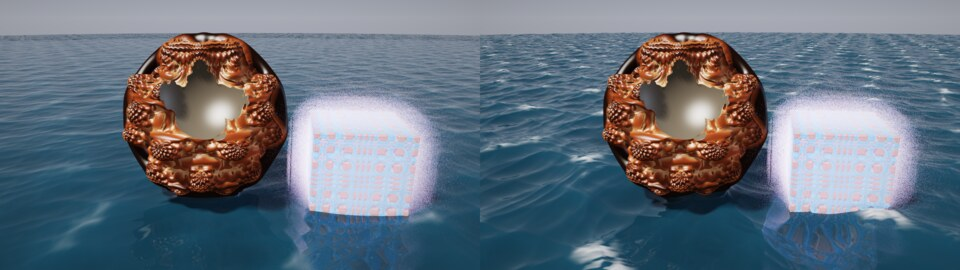
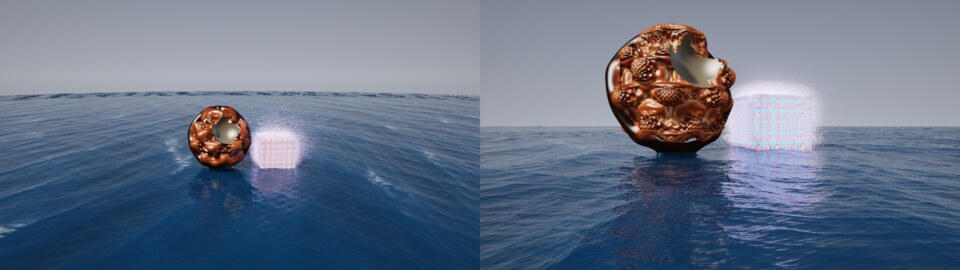
Water: wider wave spectrum, bending crests and wave groups
The waves now span long swells to small ripples (height proportional to
wave length) with random phases, small waves spread wider around the wind,
deep-water speeds, slow domain warping and wave groups, so wide views no
longer show a regular lattice. The sum is standardized so the height range
is the same for any number of waves; distance bound re-measured per
choppiness and detail. Rarer foam, deeper default color, manual.

diff --git a/crates/rmb-core/src/compose.rs b/crates/rmb-core/src/compose.rs
@@ -116,7 +116,7 @@ pub enum Primitive {
         /// Sharpness of the crests (0 = round swell, 1 = like the sea, 2 = very choppy).
         #[serde(default = "water_choppy")]
         choppy: f64,
-        /// Number of waves (2-48): more give finer ripples on the swell.
+        /// Number of waves (4-64): more give a richer sea with finer ripples.
         #[serde(default = "water_detail")]
         detail: f64,
         /// Foam on the crests (0-1).
@@ -180,7 +180,7 @@ impl Primitive {
 
     /// Water with good start values (moving waves in animations).
     pub fn water() -> Primitive {
-        Primitive::Water { amplitude: 0.06, wavelength: 2.0, phase: 0.0, angle: 0.0, choppy: water_choppy(), detail: water_detail(), foam: 0.4, reflect: water_reflect(), speed: 1.0 }
+        Primitive::Water { amplitude: 0.08, wavelength: 2.0, phase: 0.0, angle: 0.0, choppy: water_choppy(), detail: water_detail(), foam: 0.3, reflect: water_reflect(), speed: 1.0 }
     }
 
     /// The parameters in a fixed order (GPU buffer: `prim`, `prim2`).
@@ -280,7 +280,7 @@ fn water_choppy() -> f64 {
 }
 
 fn water_detail() -> f64 {
-    16.0
+    32.0
 }
 
 fn water_reflect() -> f64 {
@@ -289,36 +289,54 @@ fn water_reflect() -> f64 {
 
 /// Waves of a water surface: their number grows with the detail.
 pub fn water_waves(detail: f64) -> i32 {
-    (detail.round() as i32).clamp(2, 48)
+    (detail.round() as i32).clamp(4, 64)
 }
 
+/// Wave height ∝ wave length ^ this: 1 gives every size band about the same slope, as on the
+/// sea (ripples on swells).
+const WATER_FALLOFF: f64 = 1.0;
+
 /// Height of the waves at (`x`, `y`) in 0..1 (after "Very fast procedural ocean" by afl_ext;
-/// mirrors march.wgsl `water_wave01`): a sum of waves exp(sin - 1) in directions around the
-/// wind, each a little shorter, weaker and faster than the one before; every wave drags the
-/// point along its slope, which sharpens the crests (`choppy`).
+/// mirrors march.wgsl `water_wave01`): a sum of waves exp(sin - 1), from swells longer than
+/// the wave length down to small ripples, each with its own random phase, a direction around
+/// the wind (small waves spread wider) and the speed of deep water waves (longer ones run
+/// faster). Every wave drags the point along its slope, which sharpens the crests
+/// (`choppy`). Over large distances the crests bend (slow domain warping) and wave groups
+/// make the sea calmer and rougher in turns, so a wide view never repeats.
 fn water_wave01(a: &[f64; 8], x: f64, y: f64) -> f64 {
     let (len, t, wind) = (a[1].max(1e-6), a[2], a[3].to_radians());
     let drag = a[4].max(0.0) * 0.38;
+    // Slow bends: the points move by up to 0.8 wave lengths on a scale of 5.
+    let (gx, gy) = (x / (len * 5.0), y / (len * 5.0));
+    let wx = (water_noise(gx, gy) * 2.0 - 1.0) * len * 0.8;
+    let wy = (water_noise(gx + 31.7, gy + 17.3) * 2.0 - 1.0) * len * 0.8;
     let freq0 = std::f64::consts::TAU / len;
-    let (mut px, mut py) = (x * freq0, y * freq0);
-    // Far apart, the waves fall out of step.
-    let shift = (px * px + py * py).sqrt() * 0.1;
-    let (mut f, mut speed, mut w, mut sum, mut weights) = (1.0, 1.0, 1.0, 0.0, 0.0);
-    for i in 0..water_waves(a[5]) {
-        let ang = wind + 1.2 * (crate::render::hash3(i, 0, 11) as f64 * 2.0 - 1.0);
+    let (mut px, mut py) = ((x + wx) * freq0, (y + wy) * freq0);
+    let n = water_waves(a[5]);
+    // From 2.5 times the wave length down to about an eightieth of it.
+    let ratio = (200f64).powf(1.0 / (n - 1).max(1) as f64);
+    let (mut f, mut w, mut sum, mut weights, mut squares) = (0.4, 1.0, 0.0, 0.0, 0.0);
+    for i in 0..n {
+        let spread = 0.5 + 1.5 * i as f64 / n as f64;
+        let ang = wind + spread * (crate::render::hash3(i, 0, 11) as f64 * 2.0 - 1.0);
         let (dx, dy) = (ang.cos(), ang.sin());
-        let ph = (px * dx + py * dy) * f + t * speed + shift;
+        let ph = (px * dx + py * dy) * f + t * f.sqrt() + crate::render::hash3(i, 1, 11) as f64 * std::f64::consts::TAU;
         let wave = (ph.sin() - 1.0).exp();
         let slope = -wave * ph.cos();
         px += dx * slope * w * drag;
         py += dy * slope * w * drag;
         sum += wave * w;
         weights += w;
-        w *= 0.8;
-        f *= 1.18;
-        speed *= 1.07;
+        squares += w * w;
+        w *= ratio.powf(-WATER_FALLOFF);
+        f *= ratio;
     }
-    sum / weights
+    // Standardized by the mean and spread of exp(sin - 1) (0.4658, 0.3025), so the height
+    // keeps its range for any number of waves; wave groups grow and calm the waves over about
+    // seven wave lengths.
+    let z = (sum - 0.4658 * weights) / (0.3025 * squares.sqrt());
+    let group = 0.45 + 0.55 * water_noise(x / (len * 7.0) + 5.1, y / (len * 7.0) + 9.3);
+    (0.46 + 0.14 * z * group).clamp(0.0, 1.0)
 }
 
 /// Height of the waves at (`x`, `y`) (mirrors march.wgsl `water_height`): `a` = wave height,
@@ -328,10 +346,13 @@ pub fn water_height(a: &[f64; 8], x: f64, y: f64) -> f64 {
     (water_wave01(a, x, y) * 2.0 - 1.0) * a[0]
 }
 
-/// The steepest slope the waves reach, times wave height × 2π / wave length (measured
-/// with `water_slopes_stay_below_the_distance_bound`).
+/// The steepest slope the waves reach, times wave height × 2π / wave length. Measured: about
+/// 1.3 without choppiness at any detail; with choppiness 1 / 2: 1.4 / 2.2 at 32 waves,
+/// 2.2 / 5.2 at 64. Bound: 1.6 + choppy² × waves / 40 (checked by
+/// `water_slopes_stay_below_the_distance_bound`).
 fn water_steepness(a: &[f64; 8]) -> f64 {
-    a[0].abs() * std::f64::consts::TAU / a[1].max(1e-6) * (2.0 + 2.5 * a[4].max(0.0))
+    let c = a[4].max(0.0);
+    a[0].abs() * std::f64::consts::TAU / a[1].max(1e-6) * (1.6 + c * c * water_waves(a[5]) as f64 / 40.0)
 }
 
 /// Distance bound of the water surface: above every crest the distance to the highest one,
@@ -369,8 +390,8 @@ fn water_noise(x: f64, y: f64) -> f64 {
 /// up by noise that drifts with the wind.
 pub fn water_look(a: &[f64; 8], q: V3) -> (f64, f64) {
     let h = water_wave01(a, q.x, q.y);
-    // The top ~15 % of the heights (90 % lie below 0.6, the highest crests reach about 0.88).
-    let crest = ((h - 0.56) / 0.16).clamp(0.0, 1.0);
+    // The top ~5 % of the heights (90 % lie below 0.61, 98 % below 0.70).
+    let crest = ((h - 0.62) / 0.16).clamp(0.0, 1.0);
     if crest <= 0.0 || a[6] <= 0.0 {
         return (h, 0.0);
     }
@@ -708,13 +729,13 @@ mod tests {
     #[test]
     fn water_slopes_stay_below_the_distance_bound() {
         // The bound divides by the steepest slope: measure the real slopes.
-        for (amp, len, choppy, detail) in [(0.05, 0.3, 1.0, 16.0), (0.2, 1.0, 0.0, 8.0), (0.02, 0.5, 2.0, 48.0), (0.1, 2.0, 1.5, 32.0)] {
+        for (amp, len, choppy, detail) in [(0.05, 0.3, 1.0, 24.0), (0.2, 1.0, 0.0, 8.0), (0.02, 0.5, 2.0, 64.0), (0.1, 2.0, 1.5, 32.0)] {
             let a = [amp, len, 0.7, 25.0, choppy, detail, 0.0, 1.0];
             let steep = water_steepness(&a);
             let e = len * 1e-5;
             let mut worst: f64 = 0.0;
             for i in 0..20000 {
-                let (x, y) = ((i as f64 * 0.6180339) % 1.0 * len * 9.0, (i as f64 * 0.7548776) % 1.0 * len * 9.0);
+                let (x, y) = ((i as f64 * 0.6180339) % 1.0 * len * 30.0, (i as f64 * 0.7548776) % 1.0 * len * 30.0);
                 let gx = (water_height(&a, x + e, y) - water_height(&a, x - e, y)) / (2.0 * e);
                 let gy = (water_height(&a, x, y + e) - water_height(&a, x, y - e)) / (2.0 * e);
                 worst = worst.max((gx * gx + gy * gy).sqrt());
@@ -845,3 +866,5 @@ mod scene_tests {
         assert!(c[0] > 60 && c[1] < c[0] / 3 && c[2] < c[0] / 3, "{c:?}");
     }
 }
+
+

diff --git a/crates/rmb-app/src/formulas_panel.rs b/crates/rmb-app/src/formulas_panel.rs
@@ -579,7 +579,7 @@ fn primitive_object(p: Primitive, at: rmb_core::V3) -> SceneObject {
         }
         Primitive::Water { .. } => {
             pos = rmb_core::v3(0.0, 0.0, -1.0);
-            material.gradient = vec![rmb_core::scene::ColorStop::new(0.0, [0.01, 0.06, 0.09]), rmb_core::scene::ColorStop::new(1.0, [0.03, 0.14, 0.17])];
+            material.gradient = vec![rmb_core::scene::ColorStop::new(0.0, [0.0, 0.04, 0.09]), rmb_core::scene::ColorStop::new(1.0, [0.02, 0.1, 0.16])];
         }
         _ => {}
     }
@@ -630,14 +630,14 @@ fn primitive_params(ui: &mut Ui, p: &mut Primitive) {
             widgets::slider_log(ui, "Height", "Height of the prism (along its z axis)", height, 0.001..=100.0, 1.0);
         }
         Primitive::Water { amplitude, wavelength, phase, angle, choppy, detail, foam, reflect, speed } => {
-            widgets::slider_log(ui, "Wave height", "Height of the largest waves", amplitude, 0.0..=10.0, 0.04);
+            widgets::slider_log(ui, "Wave height", "Height of the largest waves", amplitude, 0.0..=10.0, 0.08);
             widgets::slider_log(ui, "Wave length", "Length of the largest waves (across the wind they are a bit shorter)", wavelength, 0.001..=100.0, 1.0);
-            widgets::slider(ui, "Choppiness", "Shape of the crests: 1 = round swell, higher = sharp, choppy crests", choppy, 1.0..=10.0, 4.0);
-            widgets::slider(ui, "Detail", "Wave octaves: each adds smaller, faster ripples on top (more costs a little speed)", detail, 1.0..=8.0, 5.0);
+            widgets::slider(ui, "Choppiness", "Shape of the crests: 0 = round swell, 1 = like the sea, 2 = very choppy", choppy, 0.0..=2.0, 1.0);
+            widgets::slider(ui, "Detail", "Number of waves, from long swells to small ripples: more give a richer sea (and cost speed)", detail, 4.0..=64.0, 32.0);
             widgets::slider(ui, "Direction", "Wind direction in degrees: the waves are longer along it", angle, -180.0..=180.0, 0.0);
-            widgets::slider(ui, "Foam", "White foam on the highest crests", foam, 0.0..=1.0, 0.3);
+            widgets::slider(ui, "Foam", "White, broken foam on the highest crests, streaked along the wind", foam, 0.0..=1.0, 0.3);
             widgets::slider(ui, "Reflection", "How strongly the water reflects the sky and the scene (1 = like water: weak looking straight down, a mirror at grazing angles). Works without the material's Reflection", reflect, 0.0..=2.0, 1.0);
-            widgets::slider(ui, "Speed", "How fast the waves move in animations (per second; 0 = still)", speed, 0.0..=5.0, 0.6);
+            widgets::slider(ui, "Speed", "How fast the waves move in animations (per second; 0 = still); long waves run faster than ripples, like on the sea", speed, 0.0..=5.0, 1.0);
             widgets::slider(ui, "Time", "The moment of the waves: change it to pick another wave pattern in a still image (animations add Speed per second)", phase, -100.0..=100.0, 0.0);
         }
     });

diff --git a/docs/manual/07-composition.md b/docs/manual/07-composition.md
@@ -127,29 +127,32 @@ stand upright along their own z axis.
 
 ### Water
 
-The water is an ocean surface made of many waves that run around the wind direction, each a
-little shorter and faster than the one before; their crests are pulled sharp like those of
-the sea. It reflects the sky and the scene by itself, like real water: little when you look
+The water is an ocean surface made of many waves, from long swells down to small ripples.
+They run around the wind direction (small ones spread wider), long waves faster than short
+ones as on the sea, and their crests are pulled sharp. Over large distances the crests bend
+and the sea gets calmer and rougher in turns, so a wide view does not repeat. It reflects the sky and the scene by itself, like real water: little when you look
 straight down, almost a mirror at grazing angles. The material's **Reflection** (Color tab)
 is not needed for it, and the rest of the scene keeps its own setting.
 
-![Calm water (left) and a rough sea with foam (right)](images/water.jpg)
+![The sea from above and close to the surface](images/water.jpg)
 
 | Setting | What it does | Start value |
 |---------|--------------|-------------|
-| Wave height | Height of the largest waves. | 0.06 |
+| Wave height | Height of the largest waves. | 0.08 |
 | Wave length | Length of the largest waves (across the wind a bit shorter). | 2 |
 | Choppiness | Shape of the crests: 0 = round swell, 1 = like the sea, 2 = very choppy. | 1 |
-| Detail | Number of waves: more give finer ripples on the swell (and cost a little speed). | 16 |
+| Detail | Number of waves (4–64), from long swells to small ripples: more give a richer sea and cost speed. | 32 |
 | Direction | Wind direction in degrees; the waves run mostly along it. | 0 |
-| Foam | White, broken foam on the highest crests, streaked along the wind. | 0.4 |
+| Foam | White, broken foam on the highest crests, streaked along the wind. | 0.3 |
 | Reflection | How strongly the water reflects (1 = like water, 2 = twice as much). | 1 |
-| Speed | How fast the waves move in animations (per second; 0 = still). | 1 |
+| Speed | How fast the waves move in animations (per second; 0 = still). Long waves run faster than ripples. | 1 |
 | Time | The moment of the waves: another value shows another wave pattern in a still image. Animations add the speed per second to it. | 0 |
 
 The water's own colors (its material) are the color of the water body: it gets brighter on
 the crests, where the light shines through the waves. Dark blue-green colors look like deep
 sea; lighter, greener ones like shallow water. The sun shows as sharp glints on the waves.
+The water looks best under a bright sky: it reflects the background (chapter 12), so a blue
+sky gradient and a low light give the contrast of open sea.
 
 !!! tip
     For water you can see into, give its colors some transparency and turn on **Glass** in

diff --git a/AGENT.md b/AGENT.md
@@ -327,15 +327,19 @@ cargo clippy -j 8 --workspace --all-targets
 ## Water
 
 - `Primitive::Water` (`compose.rs` `water_wave01` / `water_height` / `water_distance` /
-  `water_look`, mirrored in march.wgsl): a sum of `detail` waves exp(sin - 1) around the wind
-  (directions from `hash3`), each dragging the point along its slope (`choppy` × 0.38). The
-  distance divides by `water_steepness` (measured bound; test
-  `water_slopes_stay_below_the_distance_bound`). Parameters on the GPU in `Obj.prim` /
-  `prim2`. Water reflects by itself: `Surface::mirror` / `Traced.mirror` = Fresnel
-  (`water_fresnel`), used instead of the material's reflection amount in the bounce loop;
-  `Program::has_water` turns on the bounce loop (GPU `WATER`, `is_water(j)` from codegen,
-  `REFLECT`). Glints: shininess at least `WATER_SHININESS`. Animations add `speed` per second
-  to `phase` (`color_speeds` key `o{k}.water`).
+  `water_look`, mirrored in march.wgsl): `detail` waves exp(sin - 1) from 2.5 × the wave
+  length down to 1/80 (height ∝ wave length, `WATER_FALLOFF`), random phases and directions
+  around the wind from `hash3`, deep-water speeds (√frequency), drag along the slope
+  (`choppy` × 0.38); the sum is standardized (mean 0.4658, spread 0.3025 of exp(sin - 1)),
+  so the height range does not depend on the number of waves. Slow domain warping (scale
+  5 wave lengths) and wave groups (scale 7) keep wide views from repeating. The distance
+  divides by `water_steepness` (measured; test `water_slopes_stay_below_the_distance_bound`).
+  Parameters on the GPU in `Obj.prim` / `prim2`. Water reflects by itself:
+  `Surface::mirror` / `Traced.mirror` = Fresnel (`water_fresnel`), used instead of the
+  material's reflection amount in the bounce loop; `Program::has_water` turns on the bounce
+  loop (GPU `WATER`, `is_water(j)` from codegen, `REFLECT`). Glints: shininess at least
+  `WATER_SHININESS`. Animations add `speed` per second to `phase` (`color_speeds` key
+  `o{k}.water`).
 
 ## Light through glass
 

diff --git a/CHANGELOG.md b/CHANGELOG.md
@@ -12,6 +12,10 @@ and the release workflow uses it as the release notes.
 
 ## [Unreleased]
 
+- Water: no more even, repeating pattern in wide views. Waves from long swells down to
+  small ripples with random phases, wave speeds like deep water, slowly bending crests and
+  wave groups; rarer, higher foam; deeper default color.
+
 ## [1.0.0] - 2026-11-24
 
 First release.
